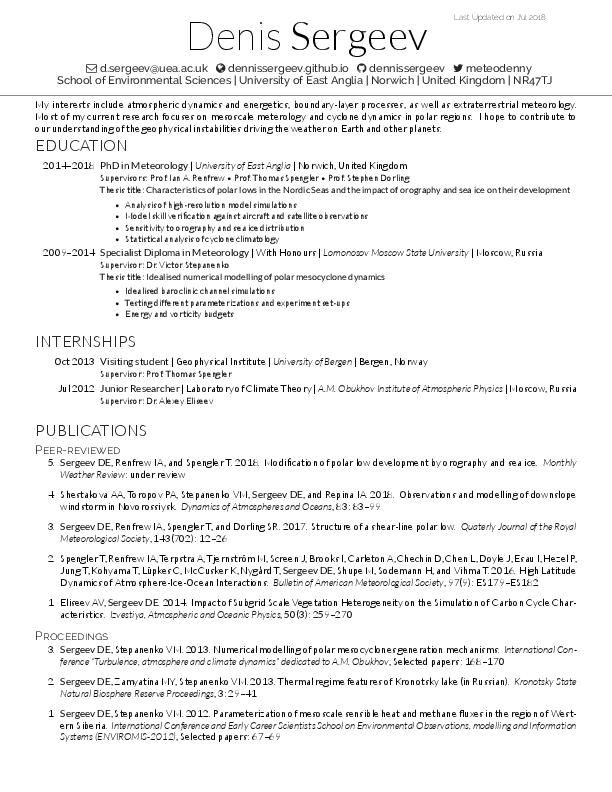
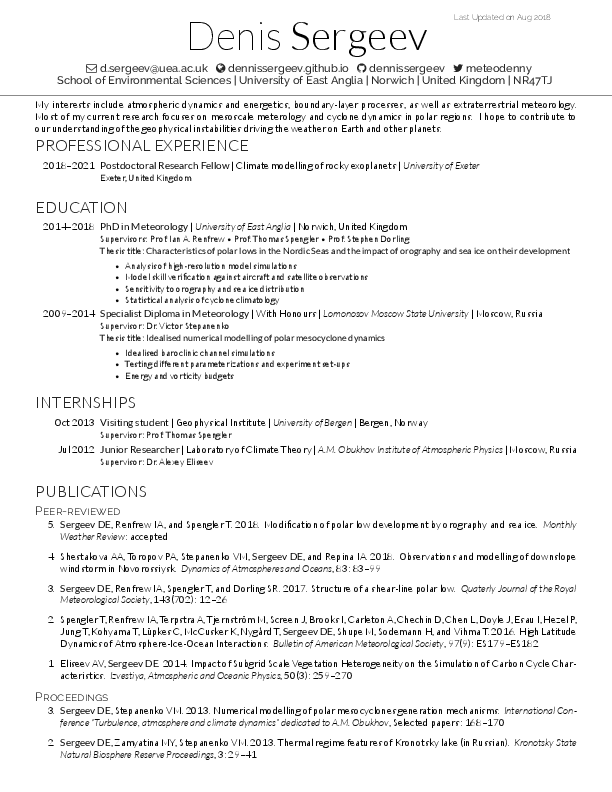
add polar2018 and postdoc

Changed region(s): [[0.0621, 0.1818, 0.9314, 0.9697], [0.8693, 0.0, 0.9003, 0.0303]]

diff --git a/template-new.tex b/template-new.tex
@@ -70,6 +70,20 @@ $profile$
 $endif$
 
 %%%%%%%%%%%%%%%%%%%%%%%%%%%%%%%%%%%%%%
+%     PROFESSIONAL EXPERIENCE
+%%%%%%%%%%%%%%%%%%%%%%%%%%%%%%%%%%%%%%
+\section{Professional Experience}
+$for(professional)$
+\cventry{$professional.time$}%
+{$professional.position$}%
+{$professional.topic$}%
+{$if(professional.department)$$professional.department$$endif$}%
+{$if(professional.institution)$\emph{$professional.institution$}$endif$}%
+{$if(professional.location)$$professional.location$$endif$}%
+{}%
+$endfor$
+\sectionsep
+%%%%%%%%%%%%%%%%%%%%%%%%%%%%%%%%%%%%%%
 %     EDUCATION
 %%%%%%%%%%%%%%%%%%%%%%%%%%%%%%%%%%%%%%
 \section{Education}
